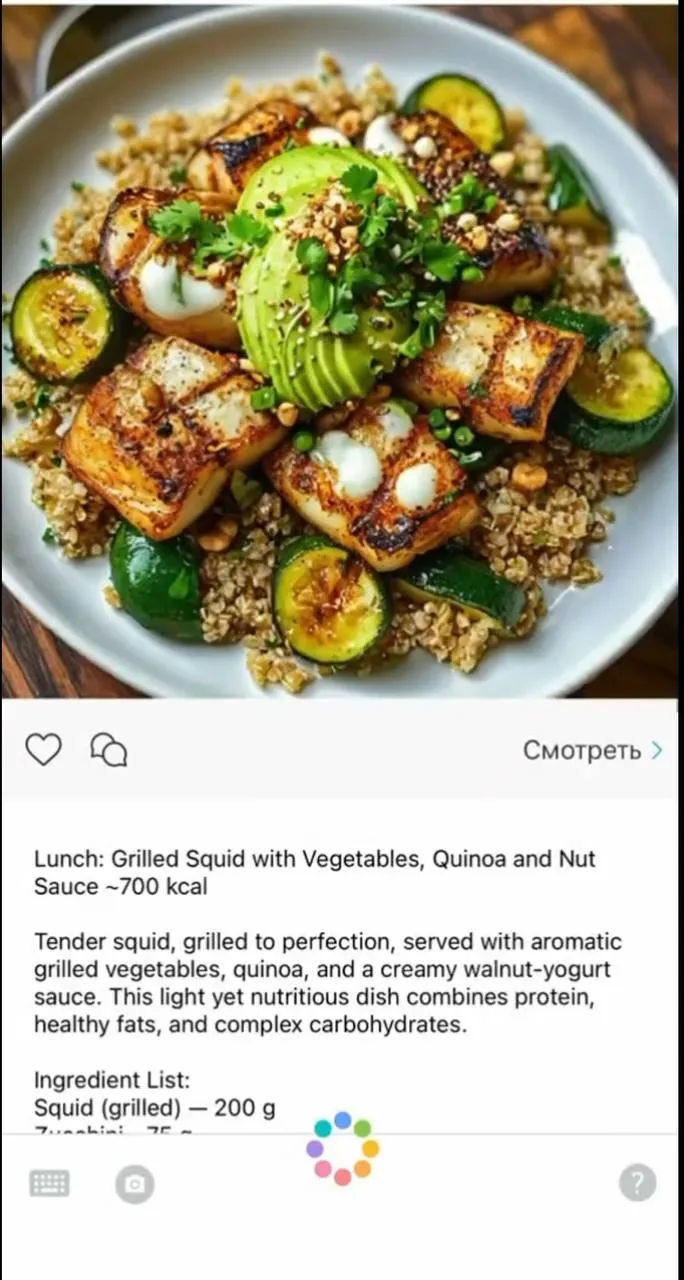
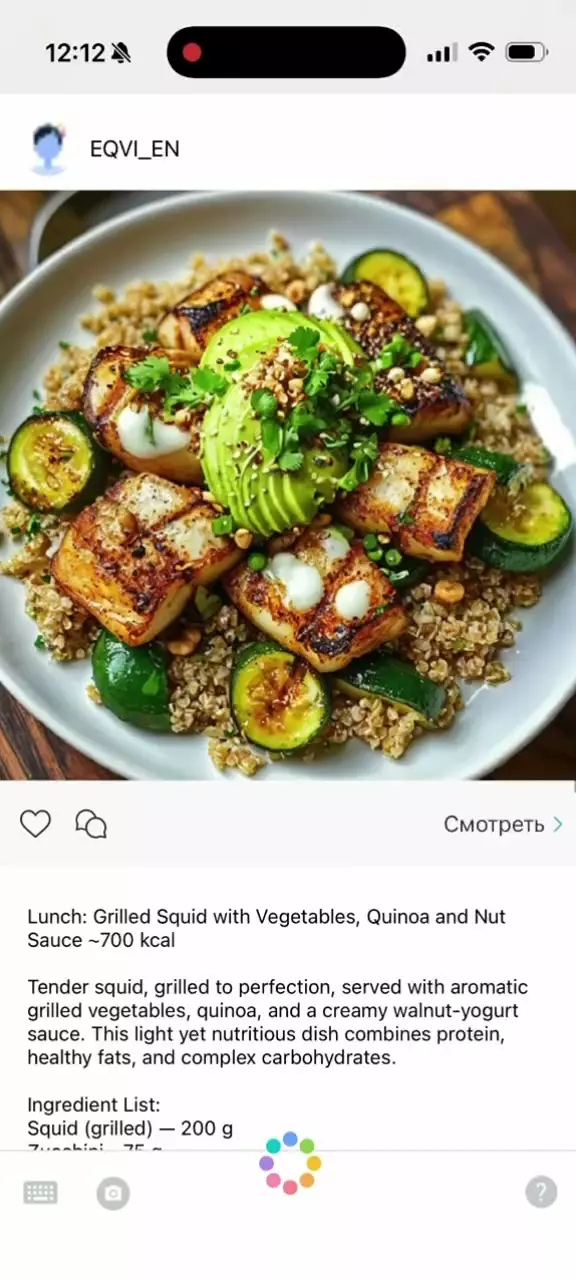
feat: preview

diff --git a/en/index.html b/en/index.html
@@ -146,7 +146,7 @@
                                     </svg> 
                                 </div>
                             </div>
-                            <img id="videoPreview" src="../Assets/Images/platform/preview_en.webp" alt="" class="absolute inset-0 z-0 aspect-9/20">
+                            <img id="videoPreview" src="../Assets/Images/platform/preview_en.webp" alt="" class="absolute inset-0 z-0 aspect-9/20 object-cover">
                         </div>
                     </div>
                 </div>
